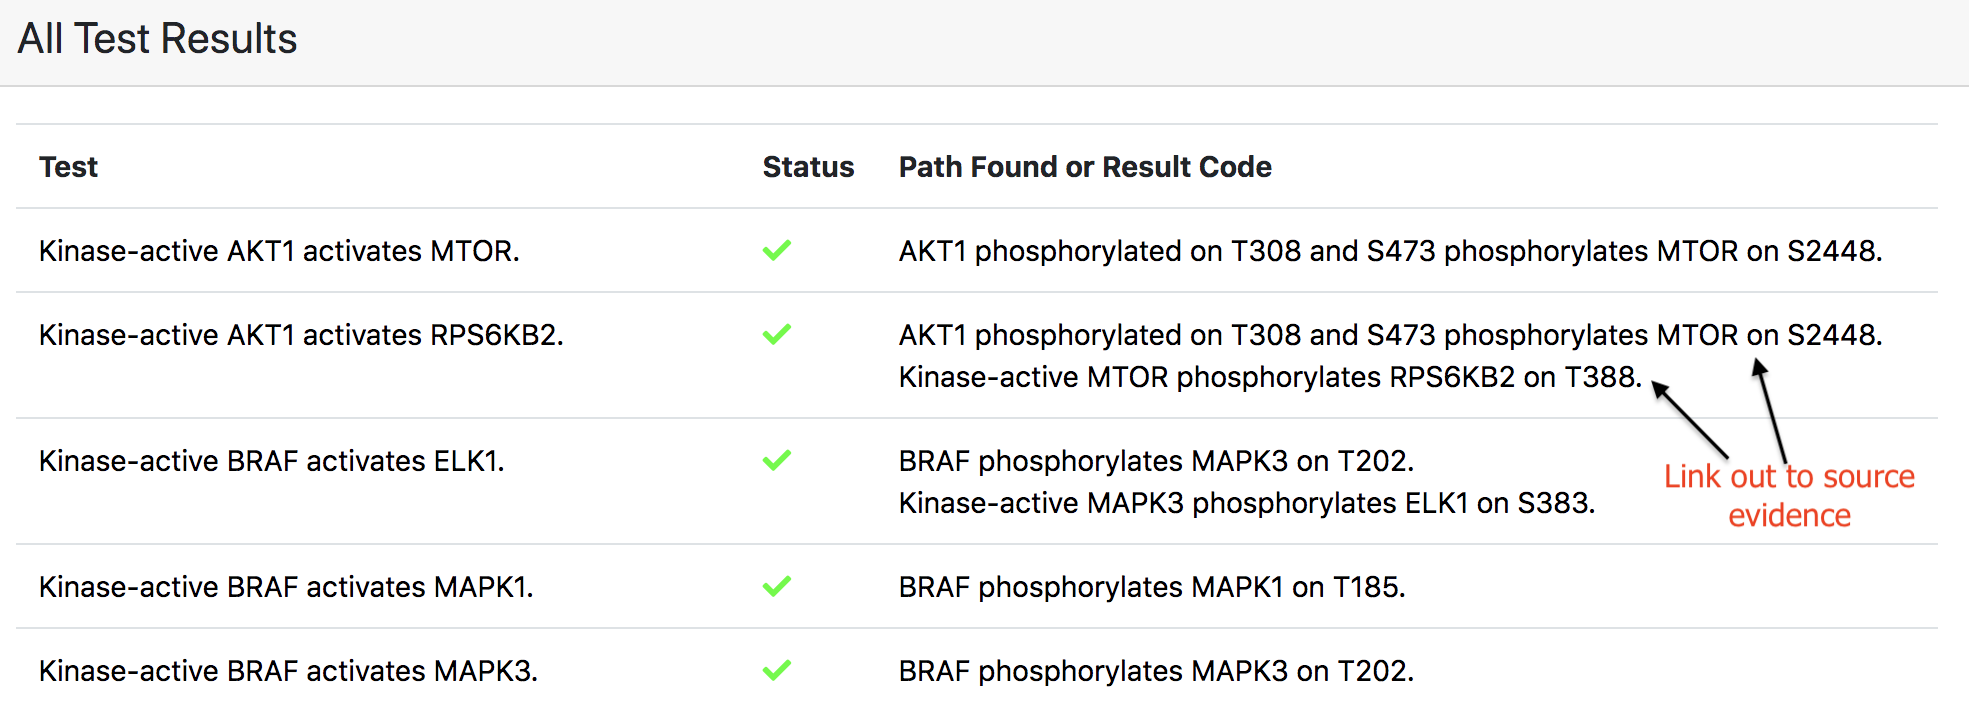
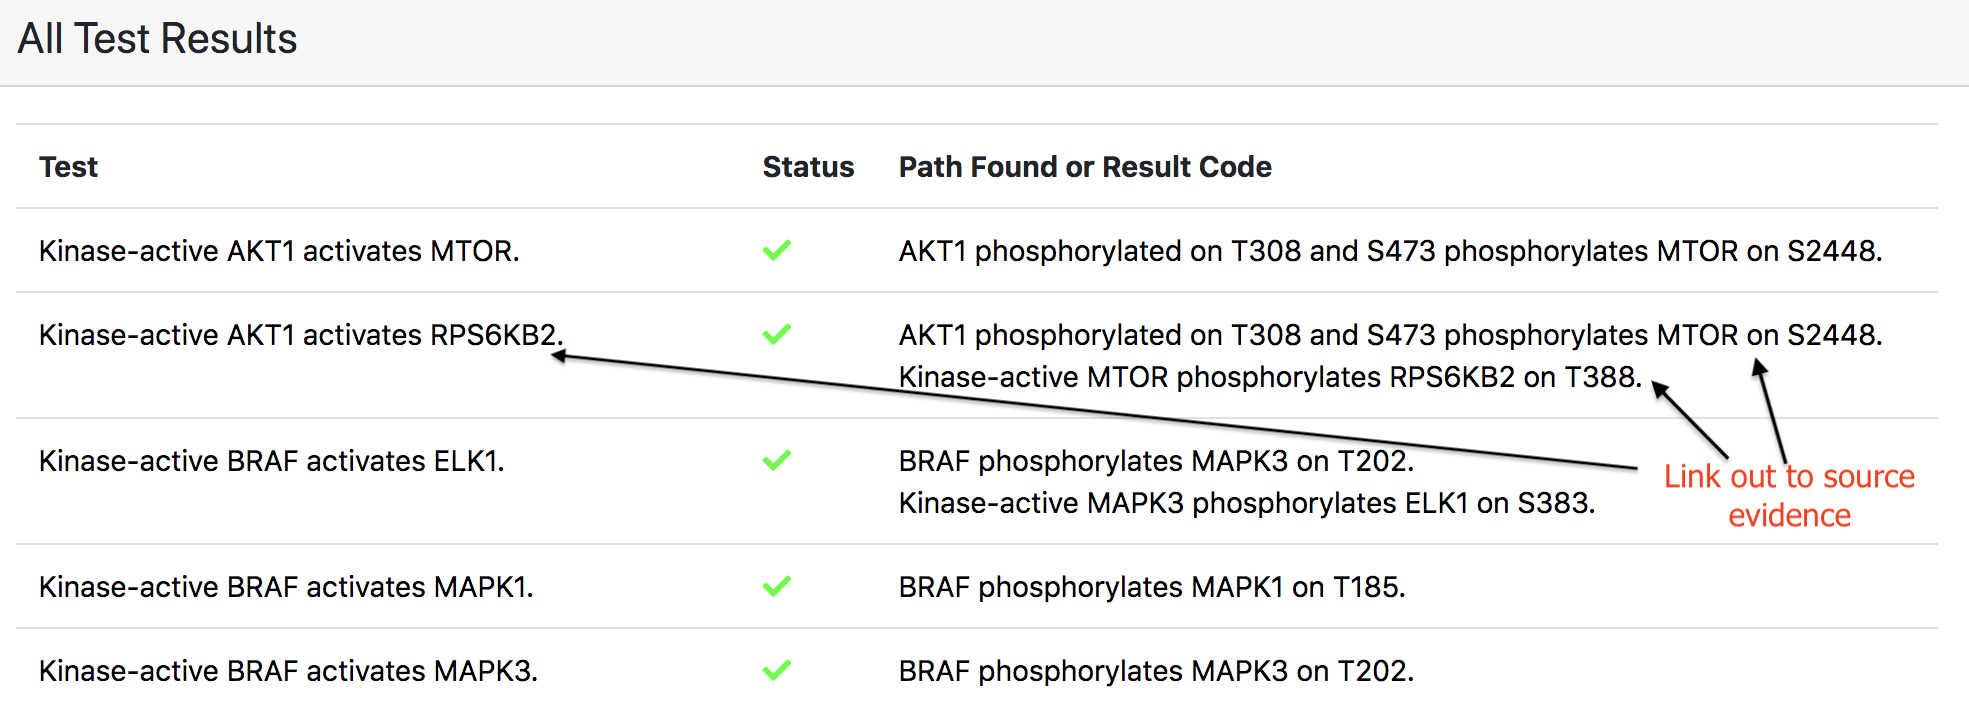
Add more details about links out and update image

Changed region(s): [[0.3718, 0.5312, 0.6816, 0.625], [0.6816, 0.625, 0.8365, 0.6875], [0.2788, 0.5, 0.3718, 0.5312]]

diff --git a/doc/reports/month6_report.rst b/doc/reports/month6_report.rst
@@ -10,6 +10,14 @@ result. EMMAA models are built automatically from primary knowledge
 sources (databases and literature), and model components are annotated such
 that given the result, we can link back to the original sources.
 
+Links to browse evidence are available in all of the following contexts:
+
+- New statements added to the model
+- Most supported statements in the model
+- New tests applicable to the model
+- Passed/failed tests and the mechanisms constituting paths by which tests
+  passed
+- Query results
 
 .. image:: ../_static/images/akt_mtor_linkout.png
 
